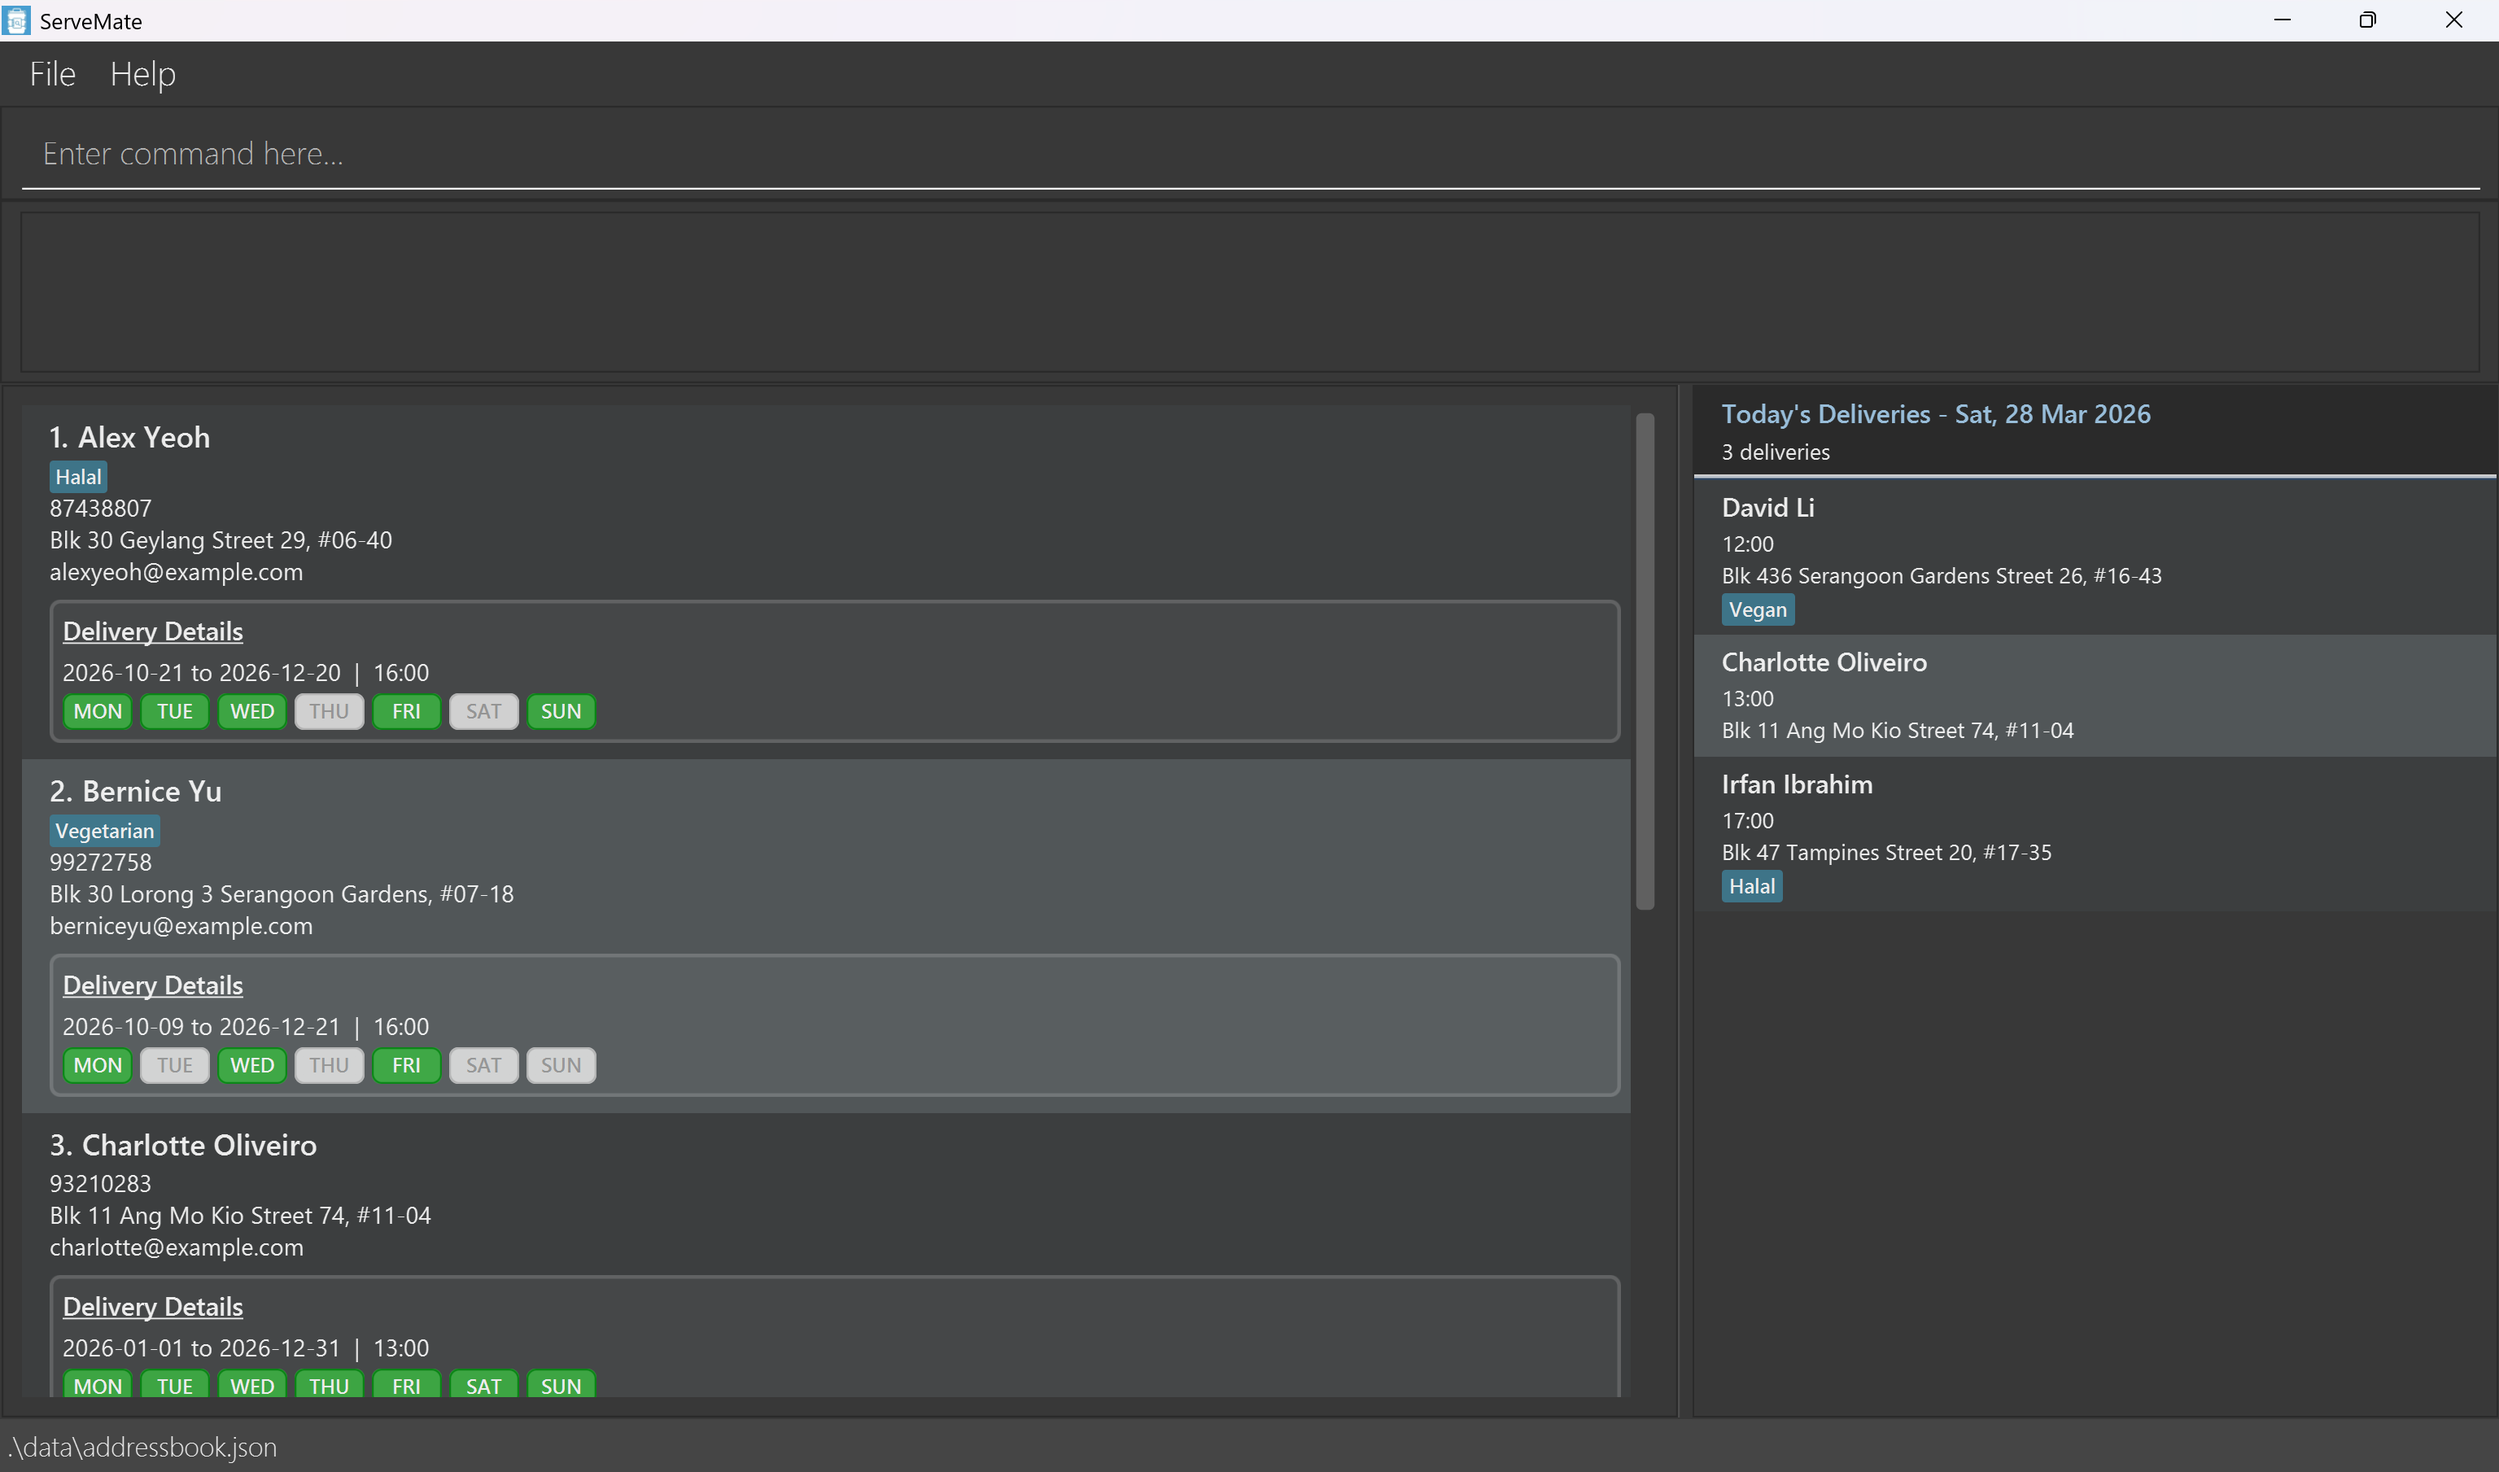
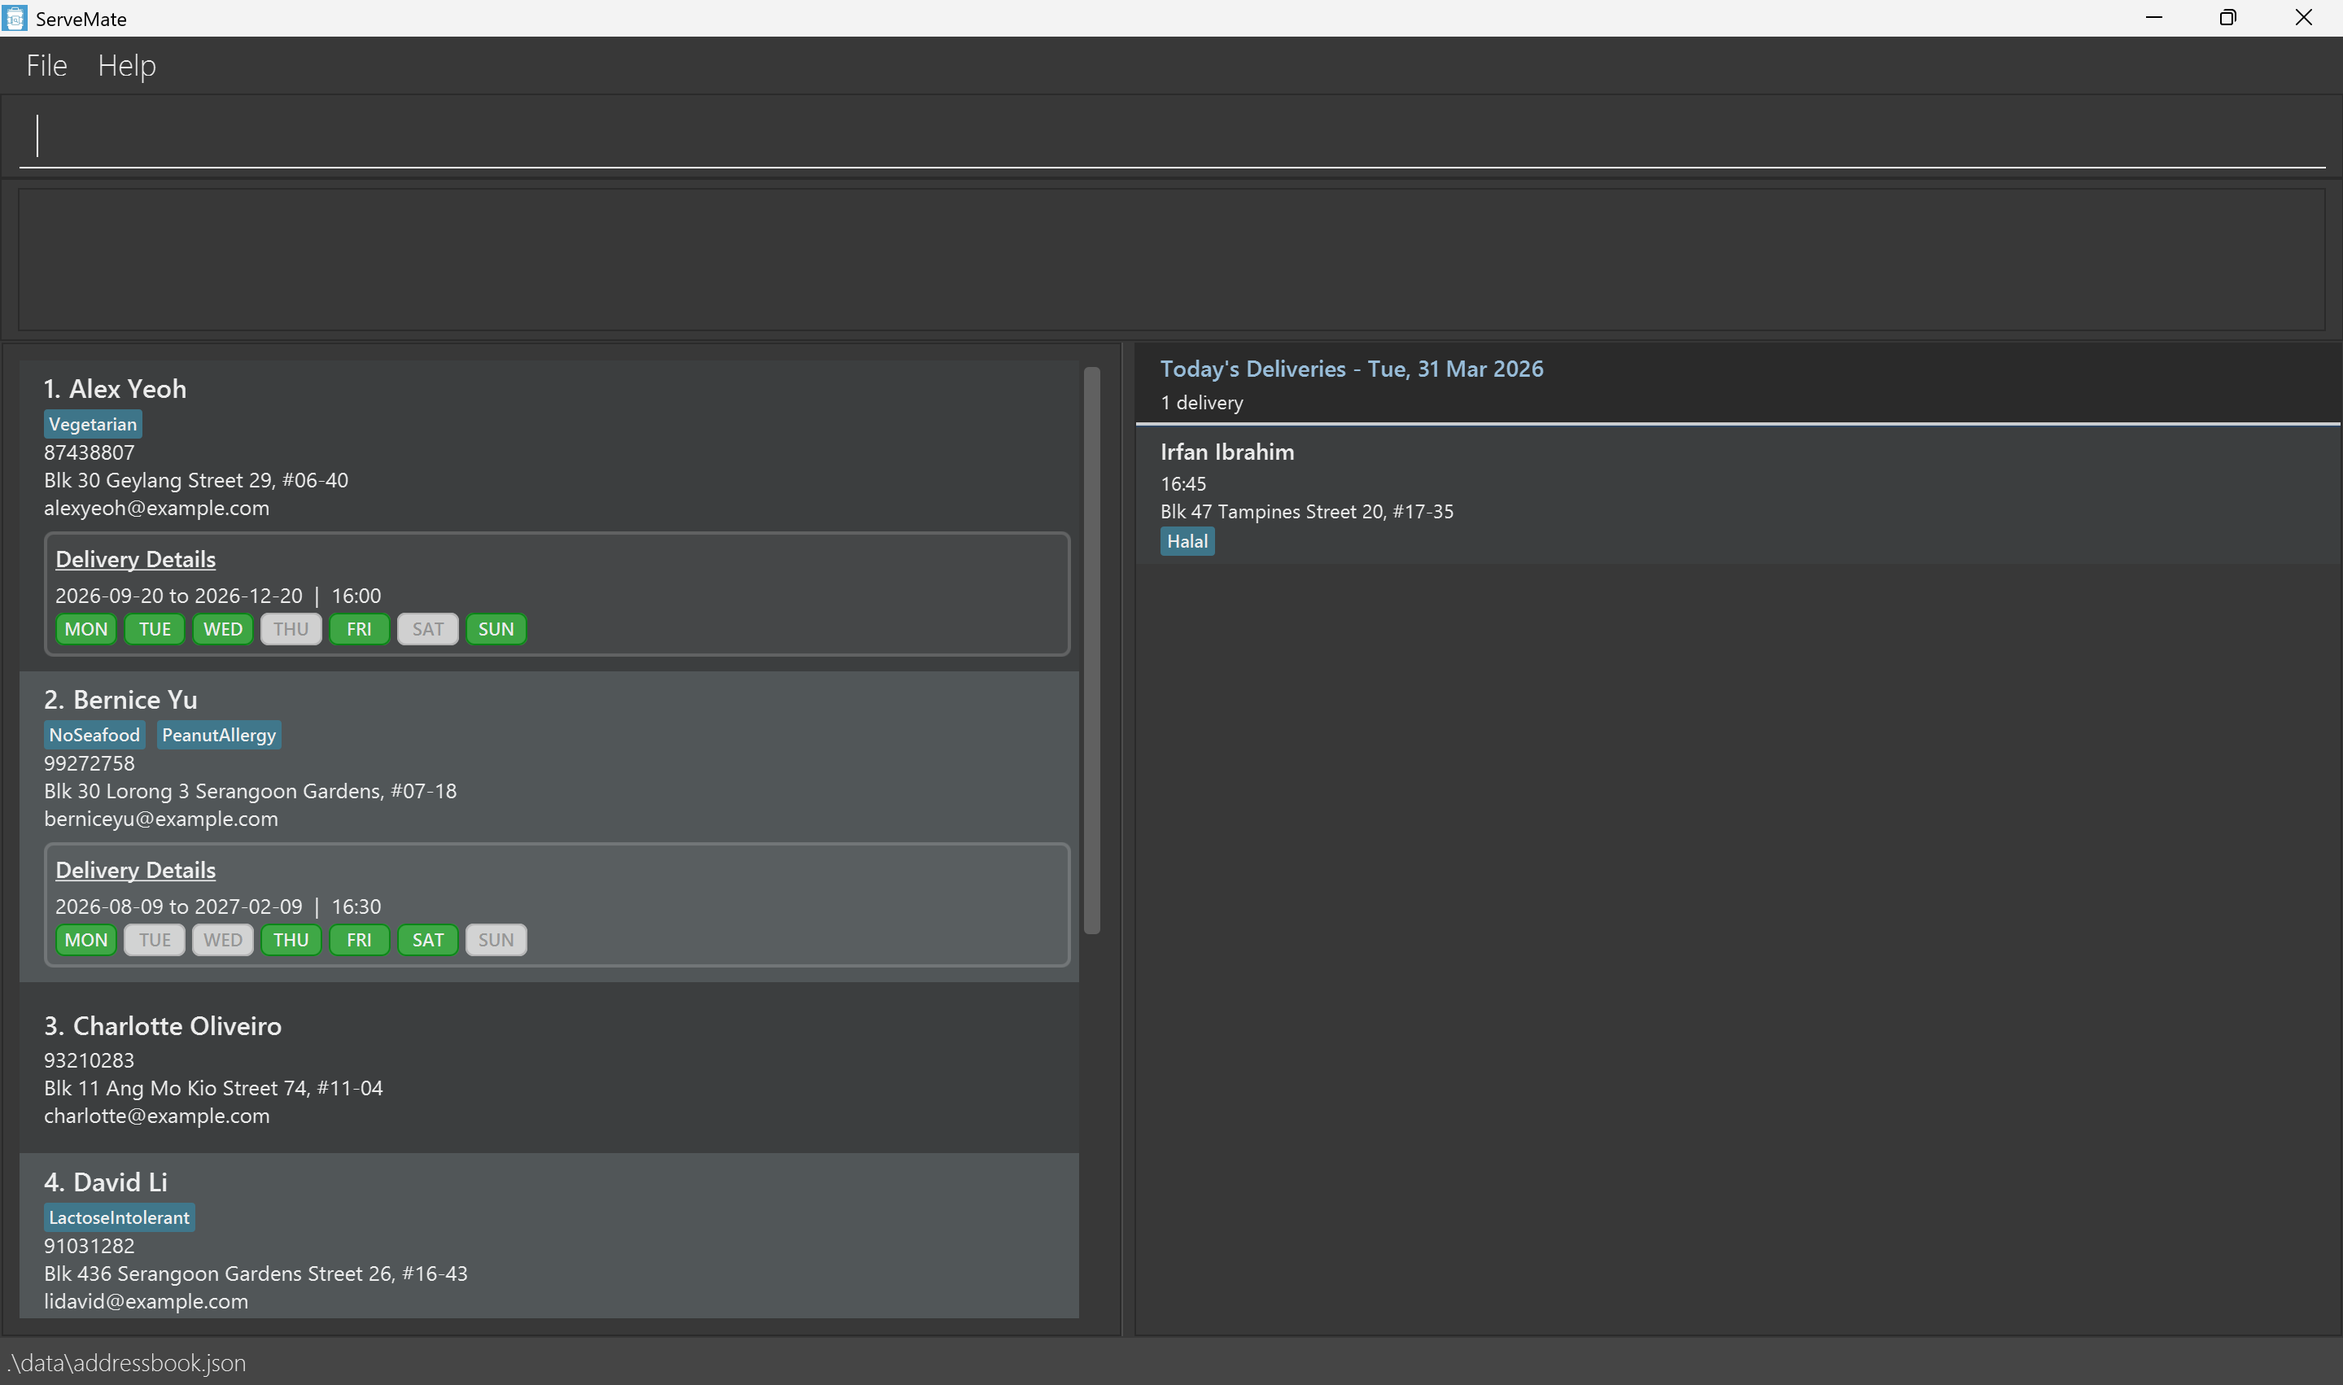
Add examples

diff --git a/src/main/java/seedu/address/model/util/SampleDataUtil.java b/src/main/java/seedu/address/model/util/SampleDataUtil.java
@@ -35,12 +35,12 @@ public class SampleDataUtil {
             new DeliveryTime("16:30")
     );
     private static final Delivery SAMPLE_DELIVERY_IRFAN = new Delivery(
-            new StartDate("2025-01-01"), new EndDate("2050-01-01"),
+            new StartDate("2025-01-01"), new EndDate("2100-01-01"),
             getDeliveryDaySet("Monday", "Tuesday", "Wednesday", "Thursday", "Friday"),
             new DeliveryTime("16:45")
     );
     private static final Delivery SAMPLE_DELIVERY_ROY = new Delivery(
-            new StartDate("2020-12-25"), new EndDate("2040-12-25"),
+            new StartDate("2025-12-25"), new EndDate("2100-12-25"),
             getDeliveryDaySet("Saturday", "Sunday"),
             new DeliveryTime("16:15")
     );
@@ -54,7 +54,7 @@ public class SampleDataUtil {
         return new Person[] {
             new Person(new Name("Alex Yeoh"), new Phone("87438807"), new Email("alexyeoh@example.com"),
                 new Address("Blk 30 Geylang Street 29, #06-40"),
-                getTagSet("Halal"),
+                getTagSet("Vegetarian"),
                 SAMPLE_DELIVERY_ALEX),
             new Person(new Name("Bernice Yu"), new Phone("99272758"), new Email("berniceyu@example.com"),
                 new Address("Blk 30 Lorong 3 Serangoon Gardens, #07-18"),

diff --git a/docs/UserGuide.md b/docs/UserGuide.md
@@ -59,7 +59,7 @@ If Java is not installed, follow the installation guide for your operating syste
 Action | Command Format (with Examples)
 -----------------|-------------------------------------------------------------------------------------------------
 **Getting help** | `help`
-**Add customer** | `add n/NAME p/PHONE_NUMBER e/EMAIL a/ADDRESS [t/TAG]…`<br><br>Example:<br>`add n/James Ho p/22224444 e/jamesho@example.com a/123, Clementi Rd, 1234665 t/Vegan t/West`
+**Add customer** | `add n/NAME p/PHONE_NUMBER e/EMAIL a/ADDRESS [t/TAG]…`<br><br>Example:<br>`add n/James Ho p/22224444 e/jamesho@example.com a/123, Clementi Rd, 1234665 t/Halal t/NoEgg`
 **List all customers** | `list`
 **Edit customer** | `edit INDEX [n/NAME] [p/PHONE_NUMBER] [e/EMAIL] [a/ADDRESS] [t/TAG]…`<br><br>Example:<br>`edit 2 n/James Lee e/jameslee@example.com`
 **Delete customer** | `delete INDEX`<br><br>Example:<br>`delete 3`
@@ -88,7 +88,7 @@ Action | Command Format (with Examples)
   e.g. `n/NAME [t/TAG]` can be used as `n/John Doe t/Halal` or as `n/John Doe`.
 
 * Items with `…` after them can be used multiple times including zero times.<br>
-  e.g. `[t/TAG]…` can be used as ` ` (i.e. 0 times), `t/Vegetarian`, `t/Vegetarian t/East` etc.
+  e.g. `[t/TAG]…` can be used as ` ` (i.e. 0 times), `t/Vegetarian`, `t/Vegetarian t/NoSeafood` etc.
 
 * Parameters can be in any order.<br>
   e.g. if the command specifies `n/NAME p/PHONE_NUMBER`, `p/PHONE_NUMBER n/NAME` is also acceptable.
@@ -106,7 +106,7 @@ Action | Command Format (with Examples)
 
 Displays a help message with a link to access ServeMate's User Guide.
 
-![help message](images/helpResult.png)
+![help message](images/HelpCommand.png)
 
 Format: `help`
 
@@ -124,7 +124,8 @@ Format: `add n/NAME p/PHONE_NUMBER e/EMAIL a/ADDRESS [t/TAG]…`
 
 Examples:
 * `add n/John Doe p/98765432 e/johnd@example.com a/John street, block 123, #01-01`
-* `add n/Betsy Crowe t/Halal e/betsycrowe@example.com a/Newgate Prison p/1234567 t/criminal`
+* `add n/Betsy Crowe t/LactoseIntolerant e/betsycrowe@example.com a/Newton Rd p/1234567 t/Vegetarian`
+  ![result for 'add n/Betsy Crowe t/LactoseIntolerant e/betsycrowe@example.com a/Newton Rd p/1234567 t/Vegetarian'](images/AddCommand.png)
 
 ### Listing all customers: `list`
 
@@ -148,6 +149,7 @@ Format: `edit INDEX [n/NAME] [p/PHONE] [e/EMAIL] [a/ADDRESS] [t/TAG]…`
 Examples:
 *  `edit 1 p/91234567 e/johndoe@example.com` Edits the phone number and email address of the 1st customer to be `91234567` and `johndoe@example.com` respectively.
 *  `edit 2 n/Betsy Crower t/` Edits the name of the 2nd customer to be `Betsy Crower` and clears all existing tags.
+  ![result for 'edit 2 n/Betsy Crower t/'](images/EditCommand.png)
 
 ### Deleting a customer : `delete`
 
@@ -172,7 +174,7 @@ Format: `find [n/NAME_KEYWORDS...] [a/ADDRESS_KEYWORDS...] [t/TAG_KEYWORDS...]`
 * The search is case-insensitive. e.g `n/hans` will match a customer with the name `Hans`.
 * Only full words will be matched e.g. `n/Han` will not match a customer with the name `Hans`.
 * The order of keywords do not matter. e.g. `n/Hans Bo` is the same as `n/Bo Hans`.
-* The order of filters do not matter. e.g. `n/John t/Tampines` is the same as `t/Tampines n/John`.
+* The order of filters do not matter. e.g. `n/John t/Halal` is the same as `t/Halal n/John`.
 * At least 1 filter with a keyword must be specified.
 * If a filter is not specified or there are no keywords, the filter is *not applied*.
 * Only customers matching *all* filters specified will be displayed.
@@ -216,7 +218,7 @@ Format: `expired bf/DATE`
 
 Examples:
 * `expired bf/2026-12-21` displays all customers whose deliveries have ended before 21 December 2026.
-  ![result for 'expired bf/2026-12-21'](images/findExpiredDelivery.png)
+  ![result for 'expired bf/2026-12-21'](images/ExpiredCommand.png)
 
 ### Scheduling a delivery : `schedule`
 
@@ -266,7 +268,7 @@ Format: `unschedule INDEX`
 Examples:
 * `list` followed by `unschedule 2` deletes the delivery for the 2nd customer on the list.
 * `find n/Bernice` followed by `unschedule 1` deletes the delivery for the 1st customer in the results of the `find` command.
-  ![result for 'unschedule 1' after `find n/Bernice`](images/unscheduleBernice.png)
+  ![result for 'unschedule 1' after `find n/Bernice`](images/UnscheduleCommand.png)
 
 ### Clearing all entries : `clear`
 
